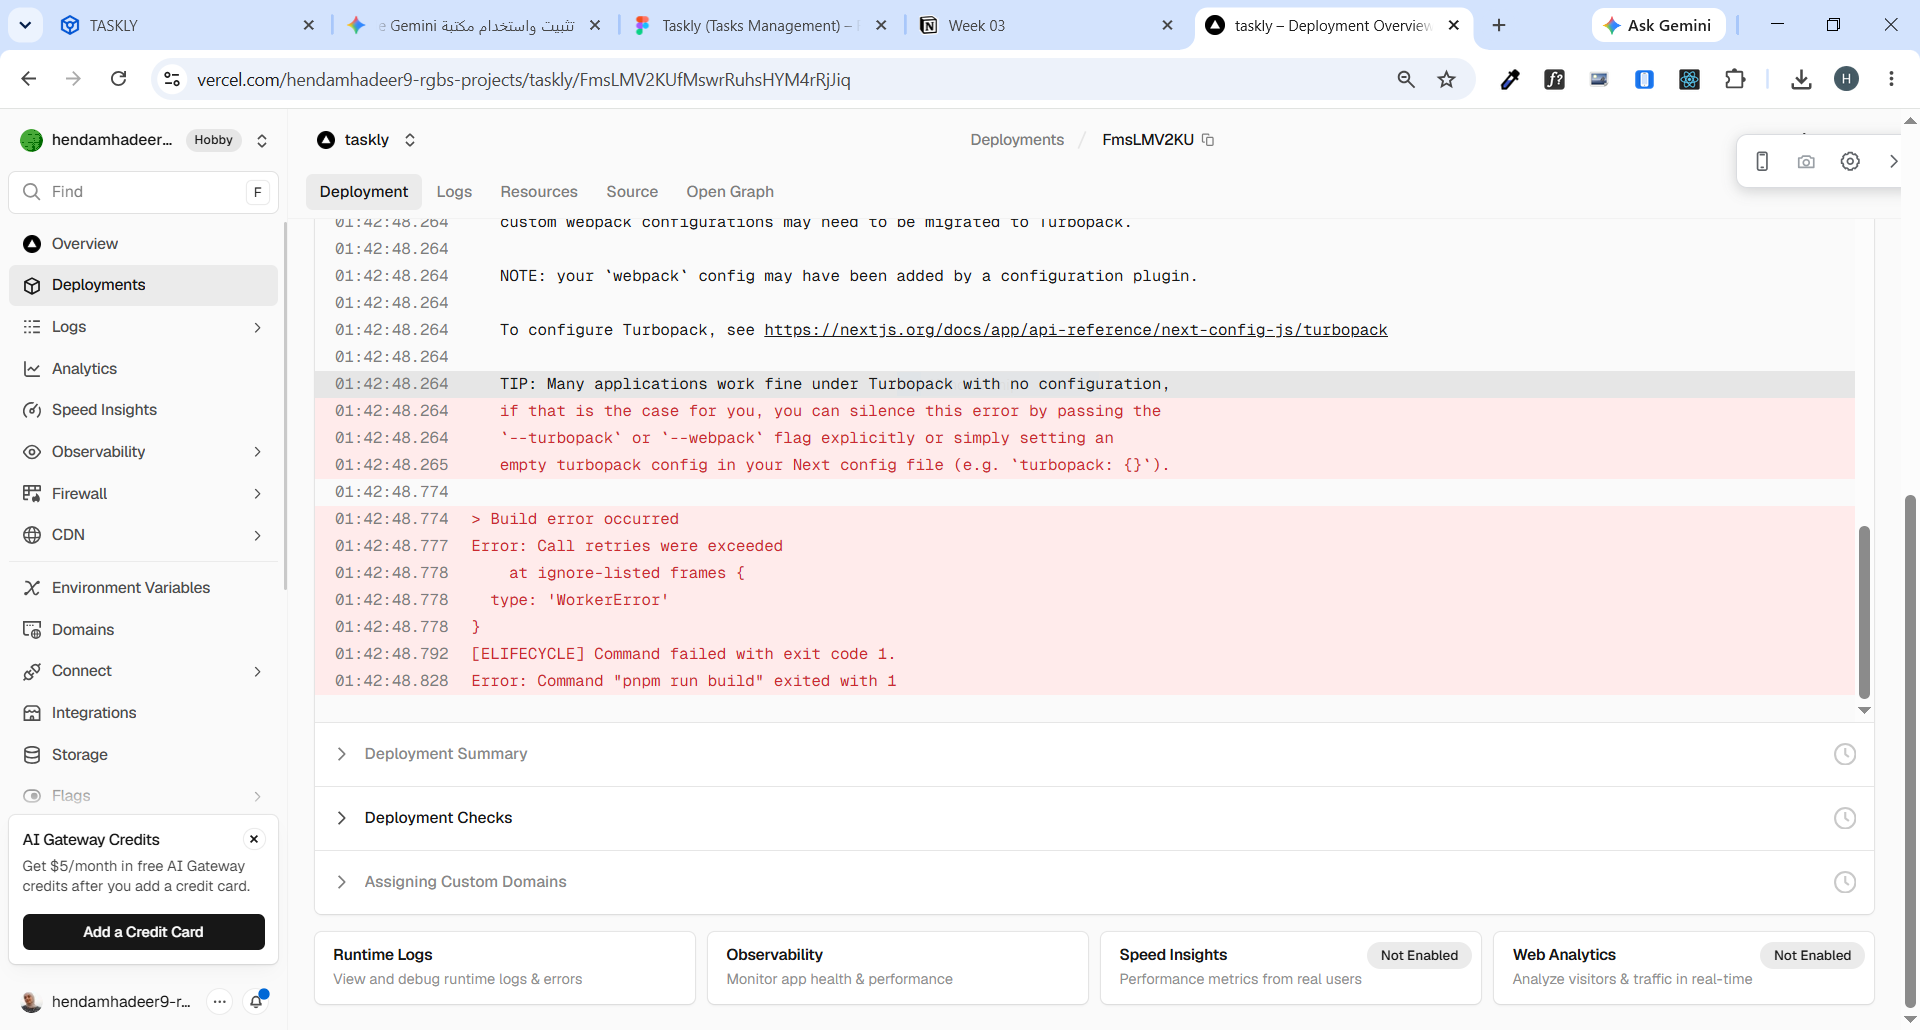
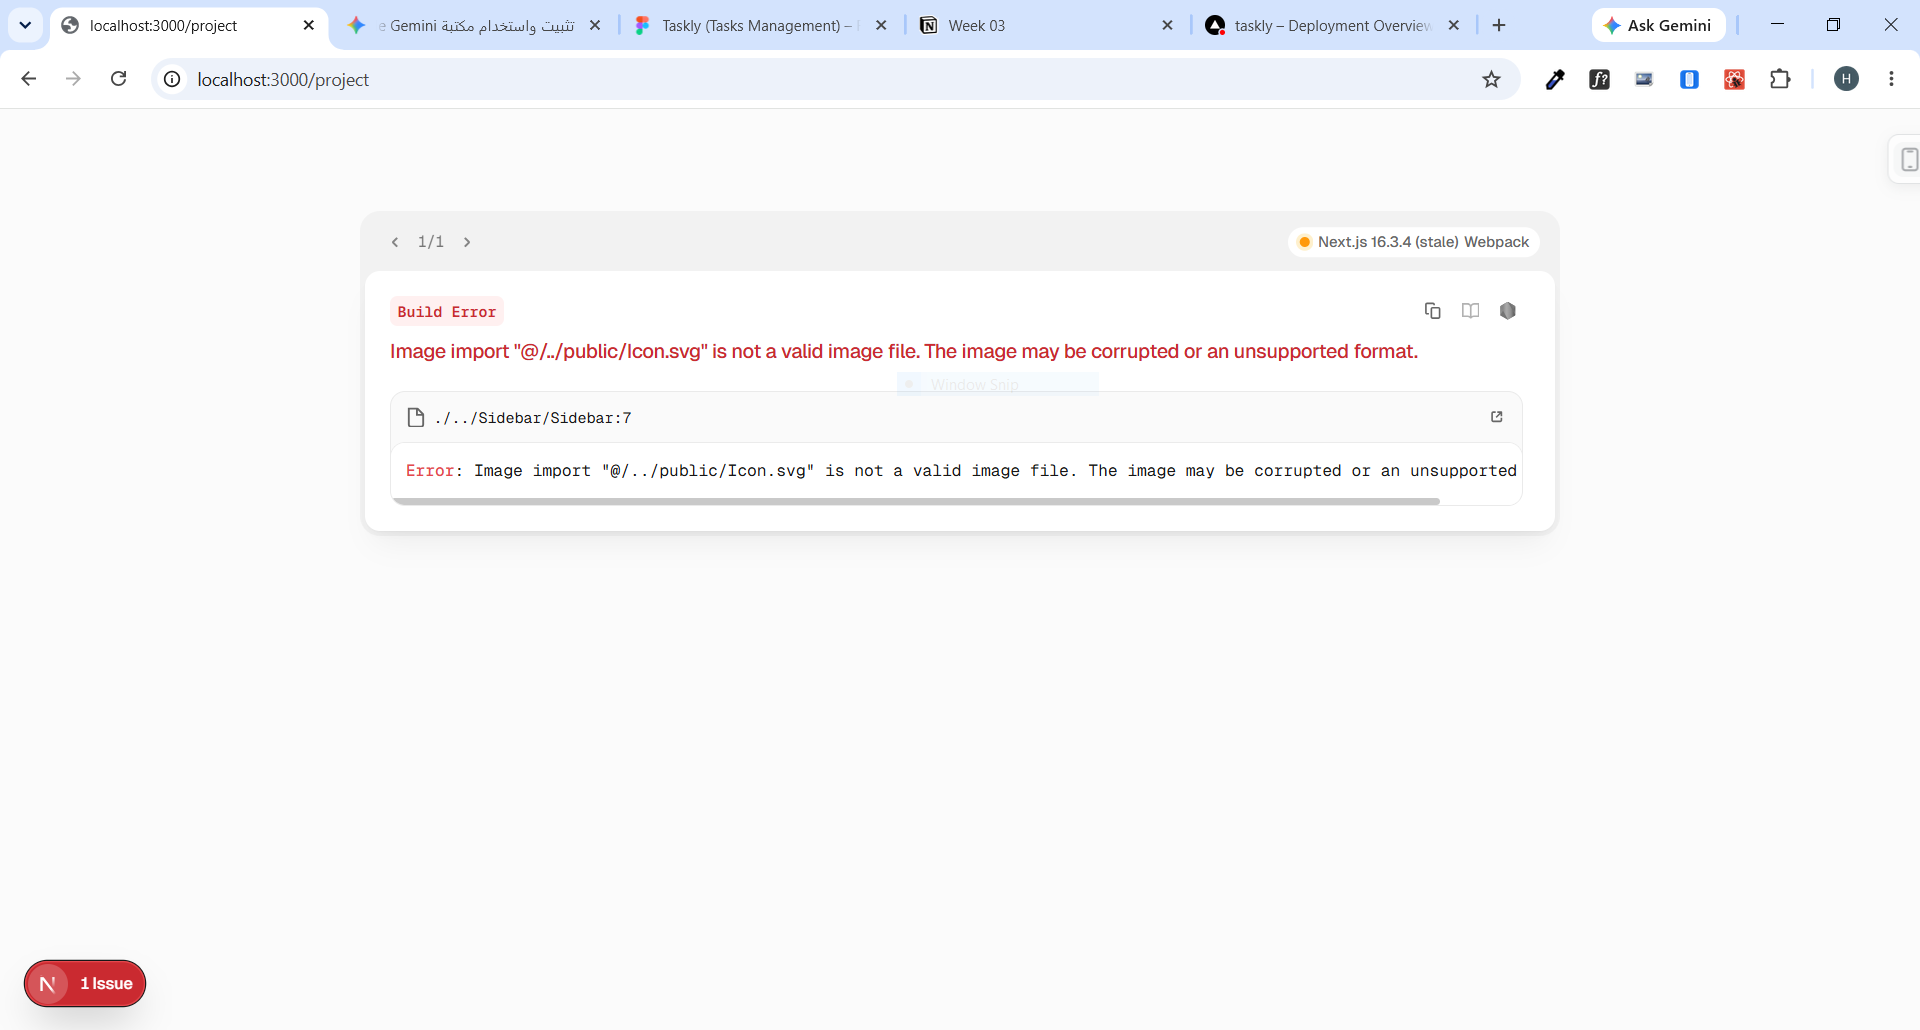
fix next config

diff --git a/src/components/layout/Sidebar/Sidebar.tsx b/src/components/layout/Sidebar/Sidebar.tsx
@@ -19,7 +19,6 @@ import Details from "@/../public/details.svg";
 import Collaps from "@/../public/collaps.svg";
 import Uncollaps from "@/../public/uncollaps.svg";
 import Logout from "@/../public/logout.svg";
-import Plus from "@/../public/plus.svg"
 
 interface SidebarProps {
   isOpen: boolean;
@@ -255,7 +254,7 @@ export default function Sidebar({
           >
             <Logout className="w-5 h-5 shrink-0" />
             {!isCollapsed && (
-              <div><Plus />{isLoggingOut ? "Logging out..." : "Logout"}</div>
+              <div>{isLoggingOut ? "Logging out..." : "Logout"}</div>
             )}
           </button>
         </div>
